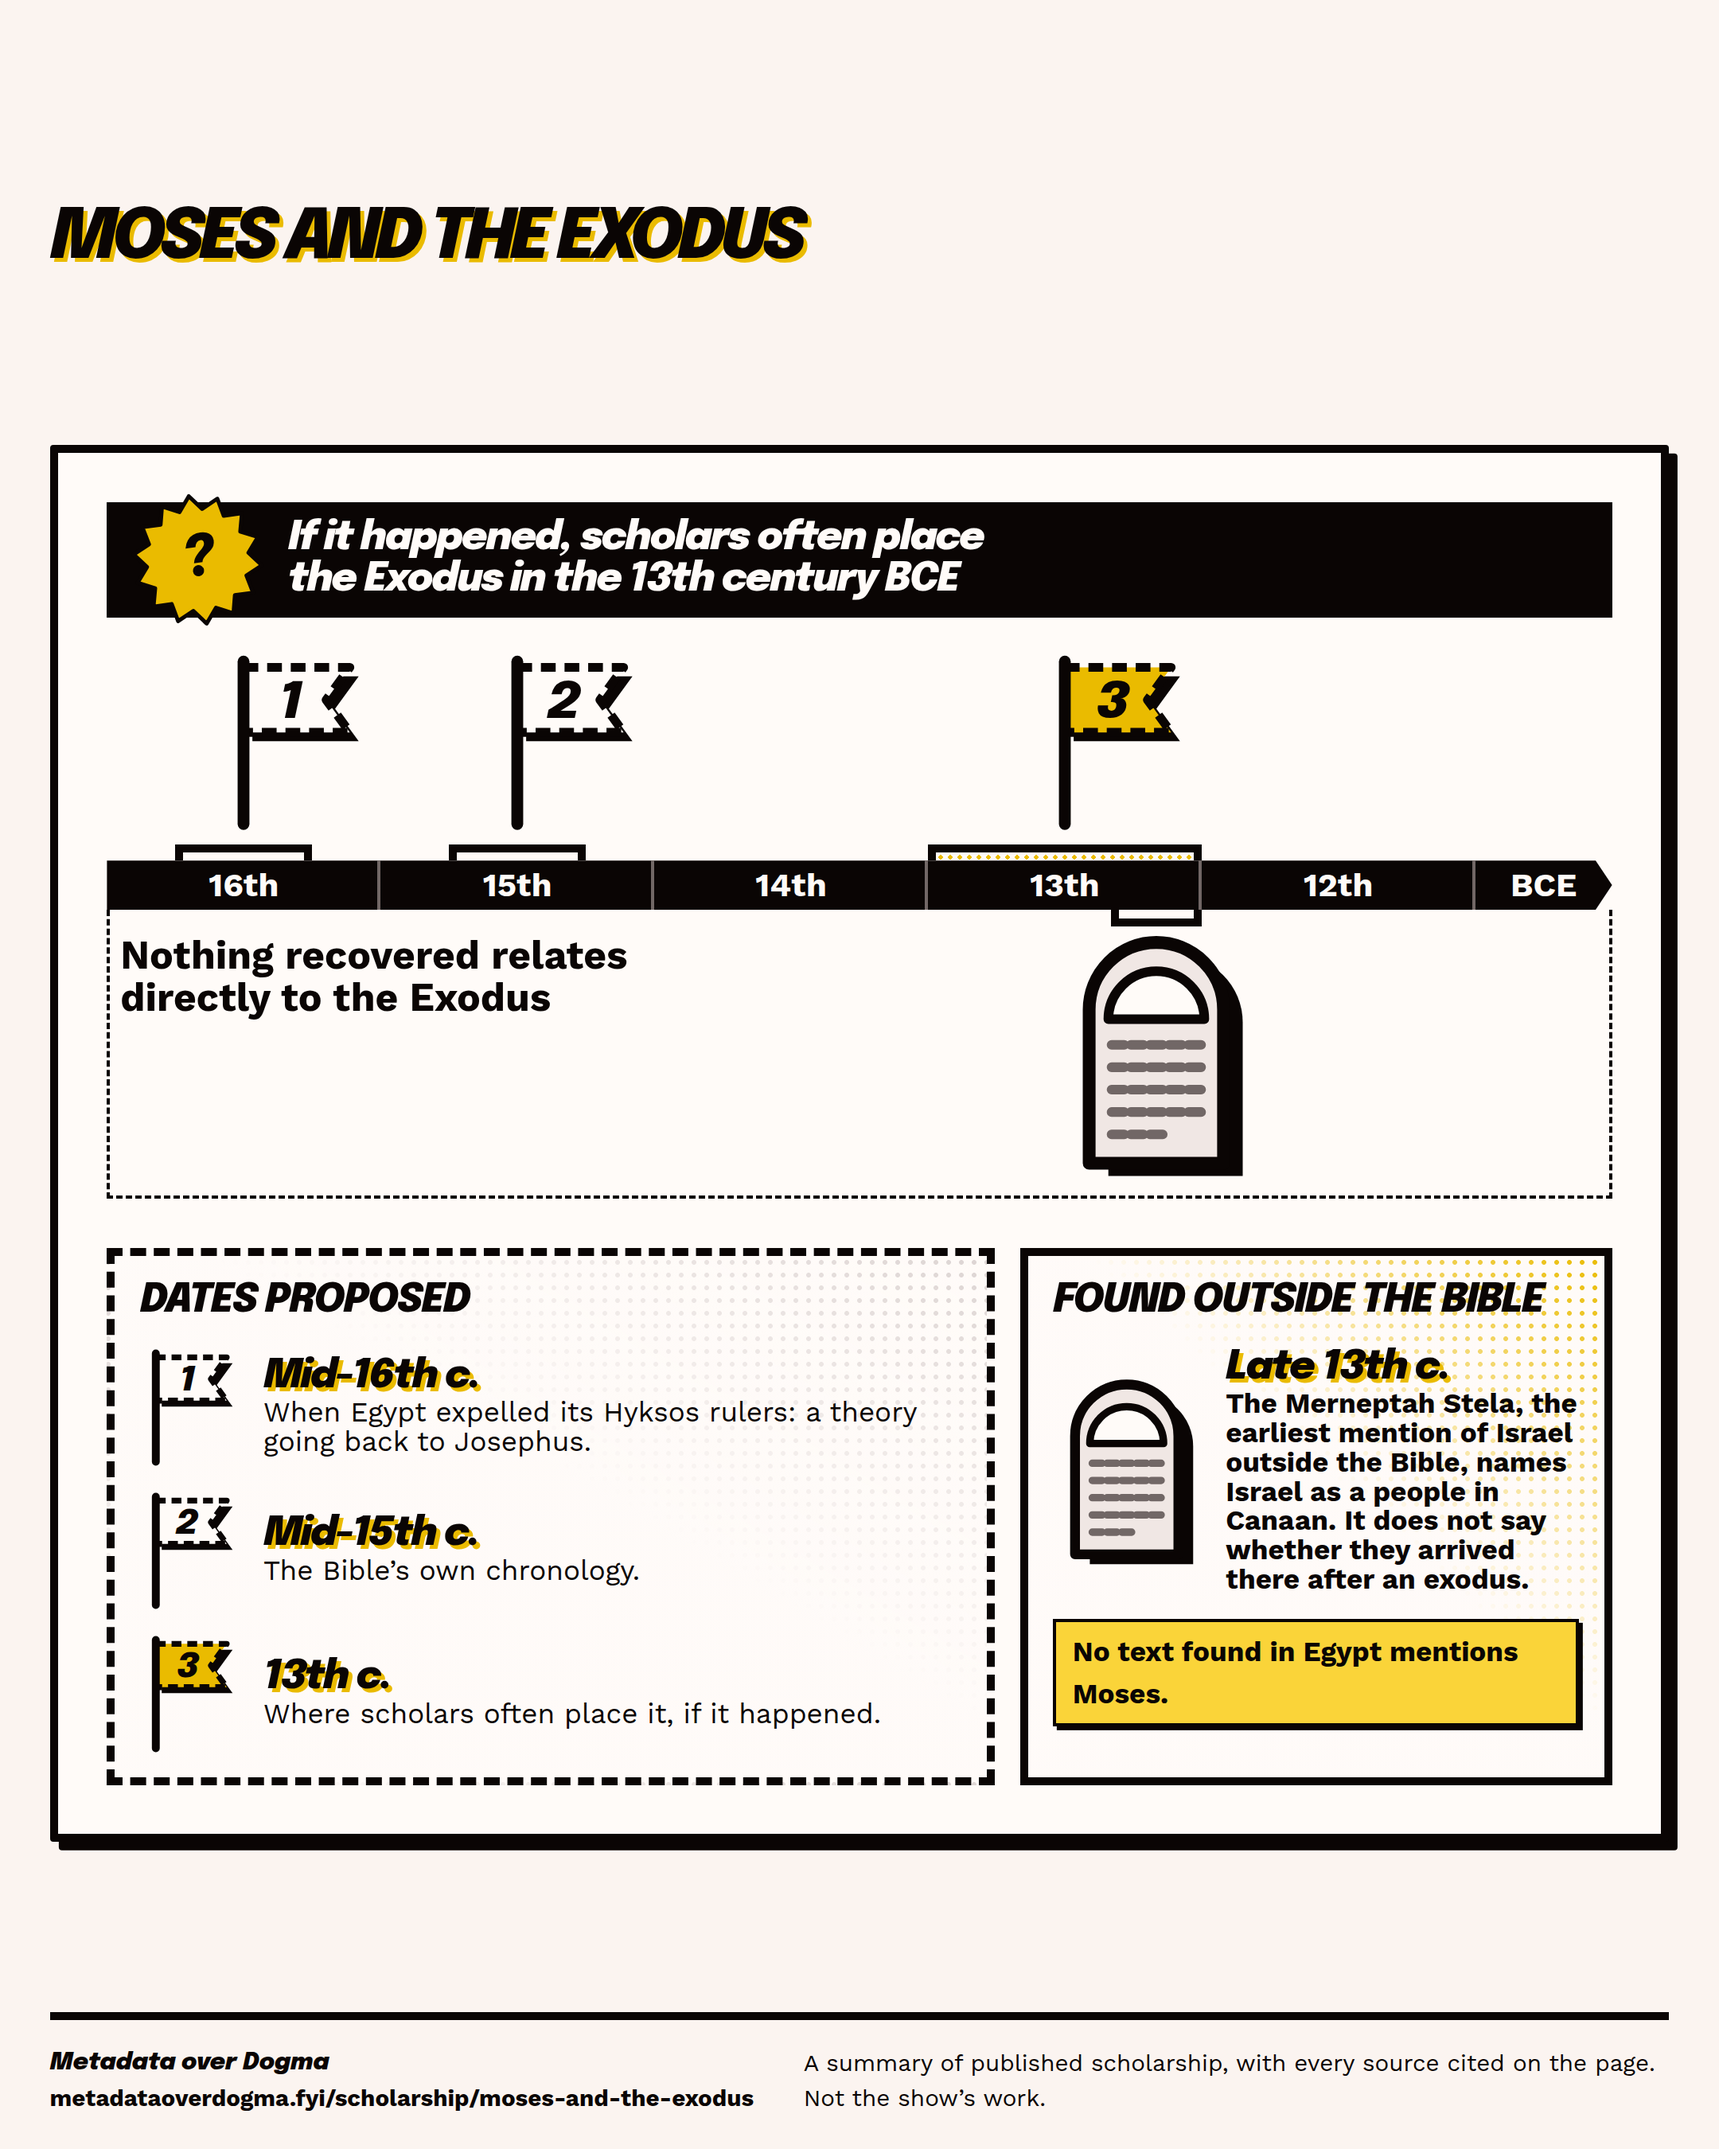
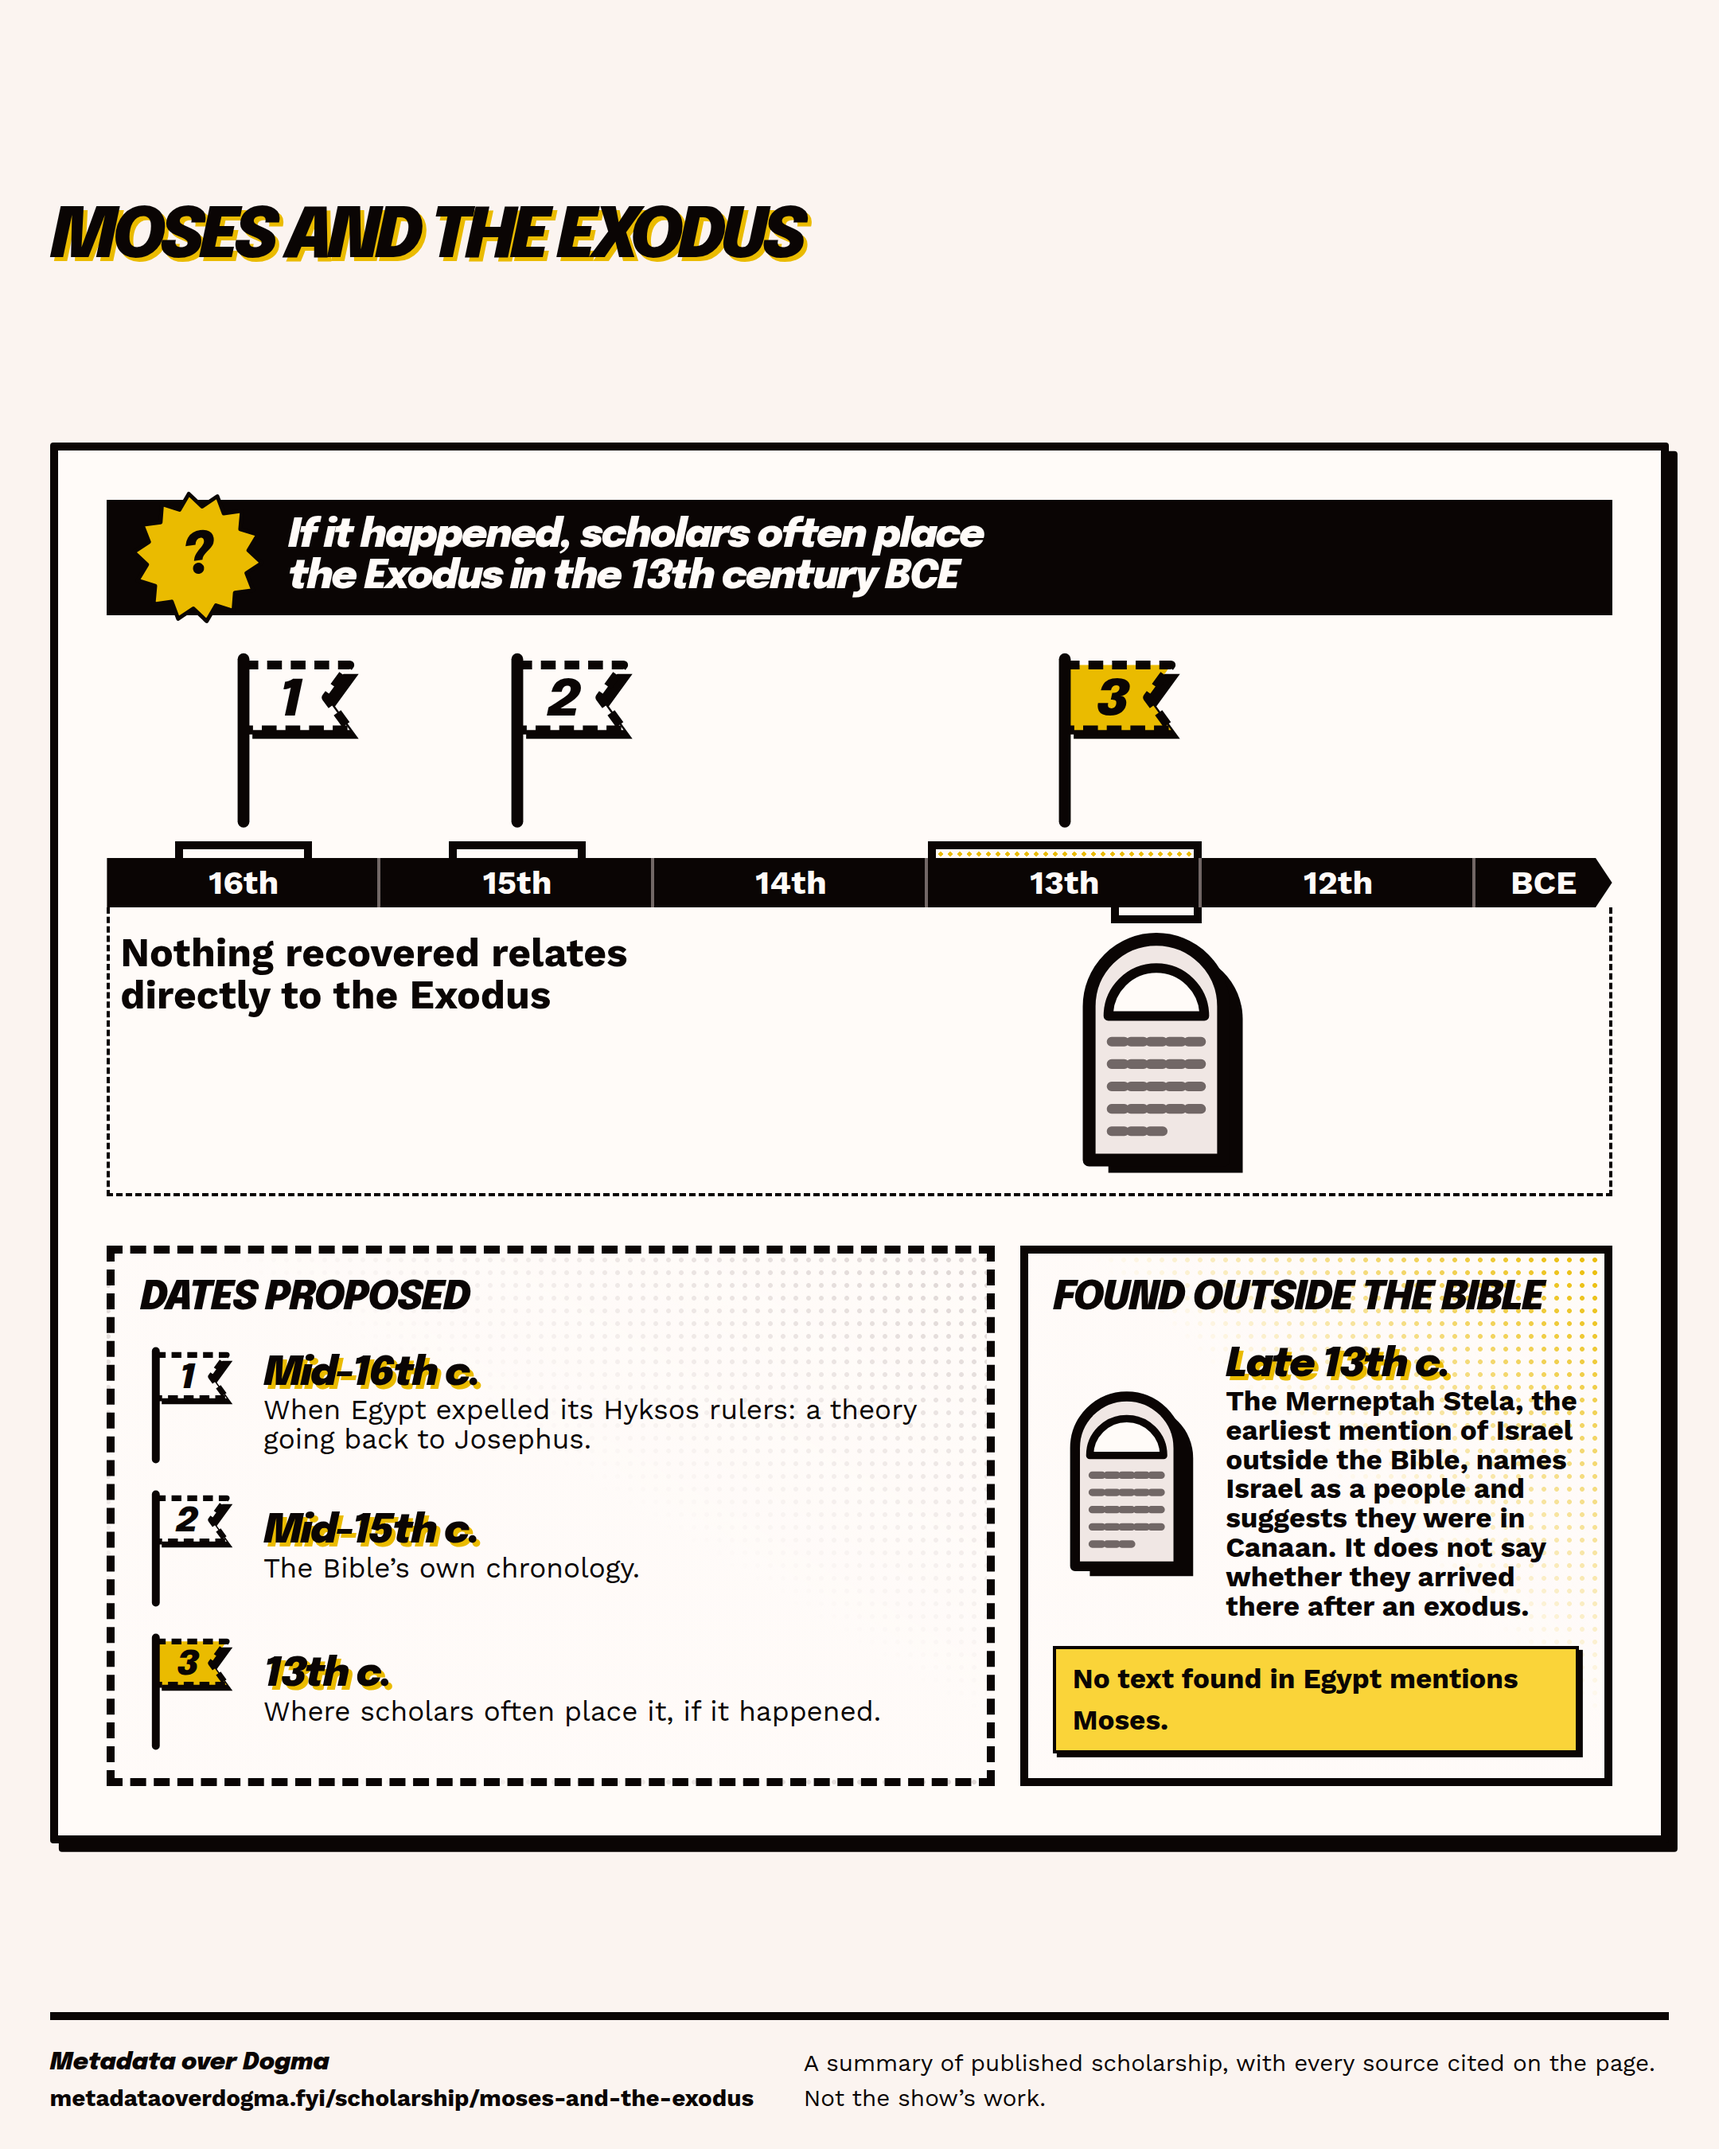
Moses infographic: card-sized lines, stela keeps 'suggests', silence line readable

diff --git a/hugo/layouts/partials/scholarship-custom/moses-and-the-exodus.html b/hugo/layouts/partials/scholarship-custom/moses-and-the-exodus.html
@@ -23,7 +23,7 @@
   - Mid-15th, the Bible's own chronology: `date` text (cite 2).
   - 13th, often placed here if it happened: `date` short (cites 5, 6).
   - Nothing recovered relates directly: `evidence` short (cites 1, 3, 4).
-  - Stela, earliest mention, a people in Canaan, silent on an exodus:
+  - Stela, earliest mention, a people, suggests in Canaan, silent on an exodus:
   `merneptah` short and text (cites 1, 2, 4, 5).
   - No text found in Egypt mentions Moses: `moses` short.
   */
@@ -32,15 +32,18 @@
   (dict
   "key" "hyksos"
   "when" "Mid-16th c."
-  "text" "When Egypt expelled its Hyksos rulers: a theory going back to Josephus.")
+  "text" "When Egypt expelled its Hyksos rulers: a theory going back to Josephus."
+  "card" "Hyksos expelled: Josephus’s theory")
   (dict
   "key" "bible"
   "when" "Mid-15th c."
-  "text" "The Bible’s own chronology.")
+  "text" "The Bible’s own chronology."
+  "card" "The Bible’s own chronology")
   (dict
   "key" "thirteenth"
   "when" "13th c."
-  "text" "Where scholars often place it, if it happened.")
+  "text" "Where scholars often place it, if it happened."
+  "card" "Often placed here, if it happened")
 -}}
 <section class="cloud-section exodus-when">
   <h2
@@ -84,9 +87,10 @@
         BCE</span
       >
     </p>
-    <div class="exodus-when__chart" aria-hidden="true">
+    {{/* The drawing is hidden from assistive tech; the silence line is not. */}}
+    <div class="exodus-when__chart">
       {{/* Above the axis: when it has been proposed. */}}
-      <div class="exodus-when__above">
+      <div class="exodus-when__above" aria-hidden="true">
         {{- range $index, $p := $proposals }}
           <span class="exodus-span exodus-span--{{ $p.key }}"></span>
           <span class="exodus-pin exodus-pin--{{ $p.key }}">
@@ -97,7 +101,7 @@
           </span>
         {{- end }}
       </div>
-      <div class="exodus-when__axis">
+      <div class="exodus-when__axis" aria-hidden="true">
         <span class="exodus-c--16">16th</span>
         <span class="exodus-c--15">15th</span>
         <span class="exodus-c--14">14th</span>
@@ -110,10 +114,11 @@
         <p class="exodus-when__silence">
           Nothing recovered relates directly to the Exodus
         </p>
-        <span class="exodus-span exodus-span--stela"></span>
+        <span class="exodus-span exodus-span--stela" aria-hidden="true"></span>
         <svg
           class="exodus-stela exodus-pin exodus-pin--stela"
           viewBox="0 0 60 80"
+          aria-hidden="true"
           focusable="false">
           <use href="#exodus-stela" />
         </svg>
@@ -134,7 +139,11 @@
                 <text x="24" y="22">{{ add $index 1 }}</text>
               </svg>
               <strong>{{ $p.when }}</strong>
-              <span>{{ $p.text }}</span>
+              <span class="exodus-when__text" data-card-hide
+                >{{ $p.text }}</span
+              >
+              {{/* The same line cut to a glance, for the link-preview card only. */}}
+              <span class="exodus-when__short">{{ $p.card }}</span>
             </li>
           {{- end }}
         </ol>
@@ -150,10 +159,14 @@
             <use href="#exodus-stela" />
           </svg>
           <strong>Late 13th c.</strong>
-          <span
+          <span class="exodus-when__text" data-card-hide
             >The Merneptah Stela, the earliest mention of Israel outside the
-            Bible, names Israel as a people in Canaan. It does not say whether
-            they arrived there after an exodus.</span
+            Bible, names Israel as a people and suggests they were in Canaan. It
+            does not say whether they arrived there after an exodus.</span
+          >
+          <span class="exodus-when__short"
+            >Merneptah Stela: suggests Israel was in Canaan. Silent on whether
+            they came by an exodus.</span
           >
         </div>
         <p class="exodus-when__note" data-card-hide>

diff --git a/hugo/assets/css/scholarship-custom/moses-and-the-exodus.css b/hugo/assets/css/scholarship-custom/moses-and-the-exodus.css
@@ -390,6 +390,11 @@
   text-shadow: var(--space-4xs) var(--space-4xs) 0 var(--color-accent);
 }
 
+/* Only the link-preview card shows the cut-down line. */
+.exodus-when__short {
+  display: none;
+}
+
 .exodus-when__item > span {
   align-self: start;
   font-size: var(--step--1);
@@ -484,7 +489,7 @@
 
 /* The card is seen small: the picture fills it, the keys in one row. */
 .scholarship-share:has(#share-card:target) .exodus-when__panel {
-  --exodus-unit: var(--space-l);
+  --exodus-unit: var(--space-xl);
 
   gap: var(--space-2xs);
 }
@@ -517,7 +522,12 @@
 }
 
 .scholarship-share:has(#share-card:target) .exodus-when__item > svg {
-  inline-size: var(--space-m);
+  inline-size: var(--space-l);
+}
+
+.scholarship-share:has(#share-card:target) .exodus-when__short {
+  display: block;
+  font-weight: var(--font-weight-bold);
 }
 
 .scholarship-share:has(#share-card:target) .exodus-when__item > strong {
@@ -525,5 +535,5 @@
 }
 
 .scholarship-share:has(#share-card:target) .exodus-when__item > span {
-  font-size: var(--step--2);
+  font-size: var(--step-0);
 }
